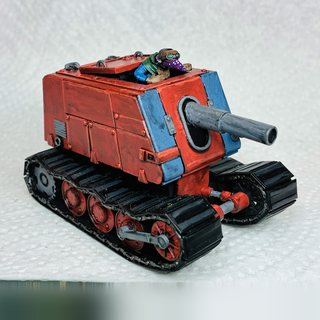
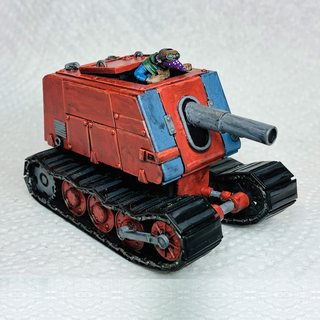
v.2026-11-23.111: Aerfen photo - bottom of round picture blended, dark band trimmed

Changed region(s): [[0.0, 0.8438, 0.4375, 1.0], [0.4688, 0.875, 0.5, 0.9062]]

diff --git a/index.html b/index.html
@@ -1556,13 +1556,13 @@ img.flag{object-fit:contain;background:none;border:0;border-radius:0}
 <div class="toast" id="toast" role="status"></div>
 <div class="updbar" id="updBar" role="status" hidden><span><b>A newer version of the Patrol Builder is available.</b></span><span class="updacts"><button class="btn" type="button" id="updBtn">Refresh now</button><button class="btn ghost" type="button" id="updLater">Later</button></span></div>
 
-<link rel="stylesheet" href="campaign.css?v=2026-11-23.109">
-<script src="campaign-rules.js?v=2026-11-23.109"></script>
-<script src="tales-rules.js?v=2026-11-23.109"></script>
-<script src="tales.js?v=2026-11-23.109"></script>
-<script src="mhuddball-rules.js?v=2026-11-23.109"></script>
-<script src="mhuddball.js?v=2026-11-23.109"></script>
-<script src="campaign.js?v=2026-11-23.109"></script>
+<link rel="stylesheet" href="campaign.css?v=2026-11-23.111">
+<script src="campaign-rules.js?v=2026-11-23.111"></script>
+<script src="tales-rules.js?v=2026-11-23.111"></script>
+<script src="tales.js?v=2026-11-23.111"></script>
+<script src="mhuddball-rules.js?v=2026-11-23.111"></script>
+<script src="mhuddball.js?v=2026-11-23.111"></script>
+<script src="campaign.js?v=2026-11-23.111"></script>
 <script>
 (function(){
 const $ = s => document.querySelector(s);
@@ -3915,7 +3915,7 @@ function mmFacCycle(){
     ico.style.setProperty("--mmdur", (n*1.2).toFixed(1)+"s"); /* 1.2 s per faction colour (v.56, user: faster; was 3 s) */ ico.classList.add("cyc");
   }catch(error){}
 }
-const APP_VERSION = "2026-11-23.109";
+const APP_VERSION = "2026-11-23.111";
 let updDismissed = false, updVersion = null;
 function checkForUpdate(){
   if (updDismissed || !/^https?:$/.test(location.protocol) || document.hidden) return;
